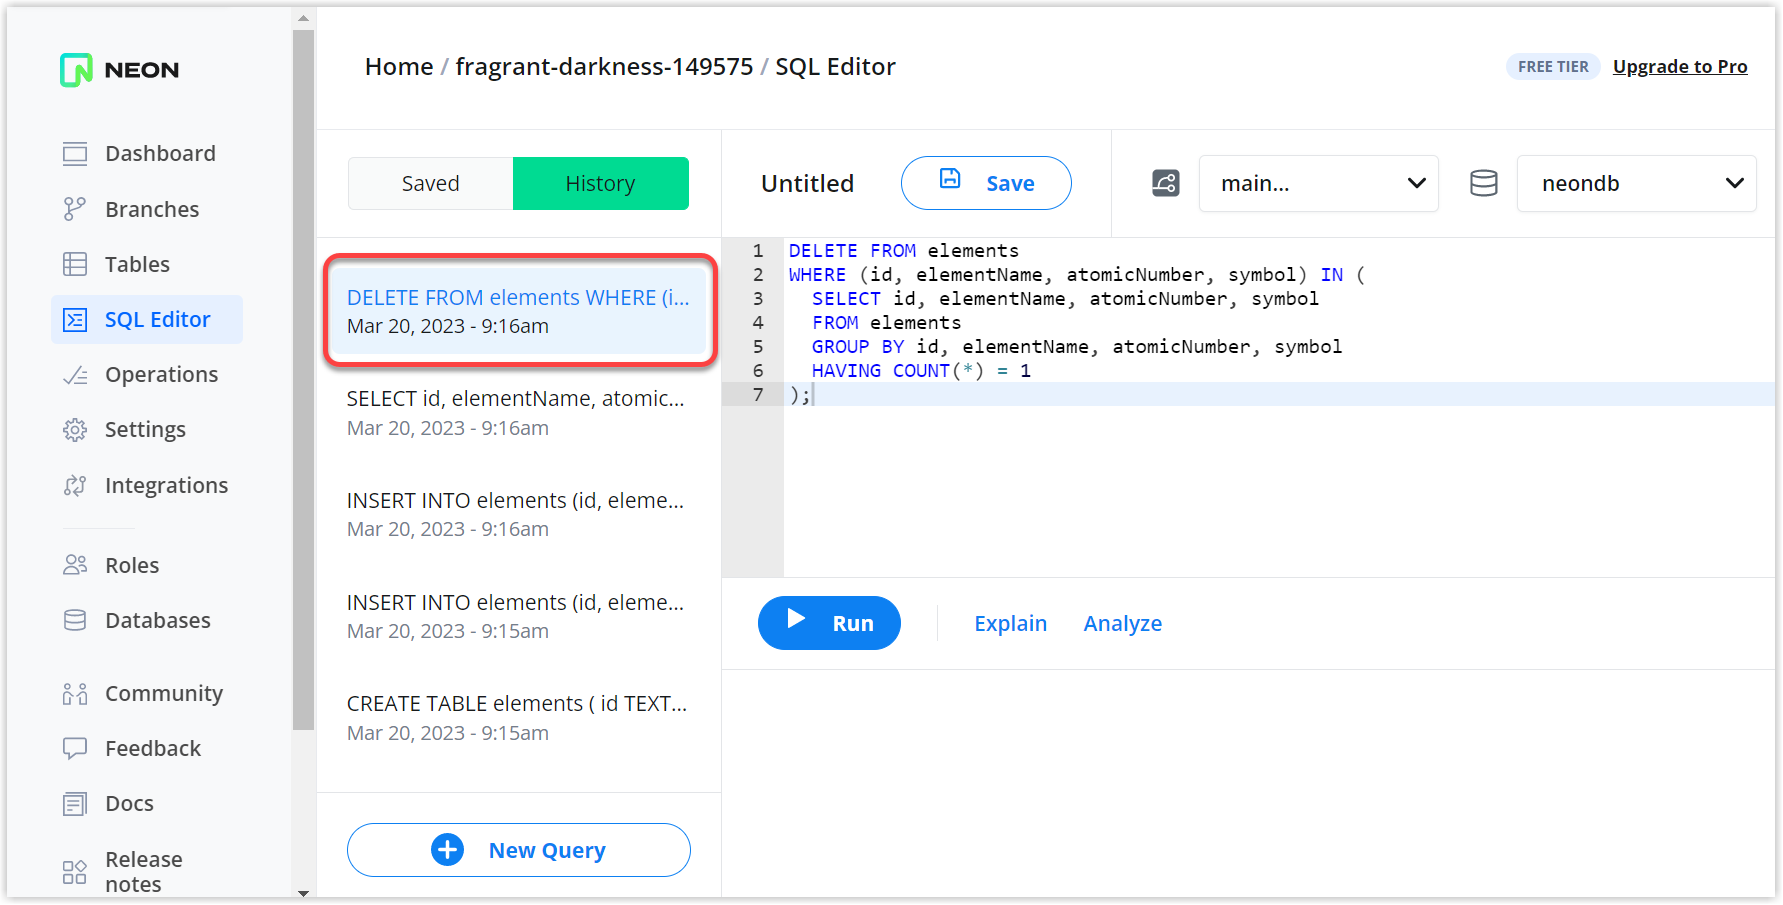
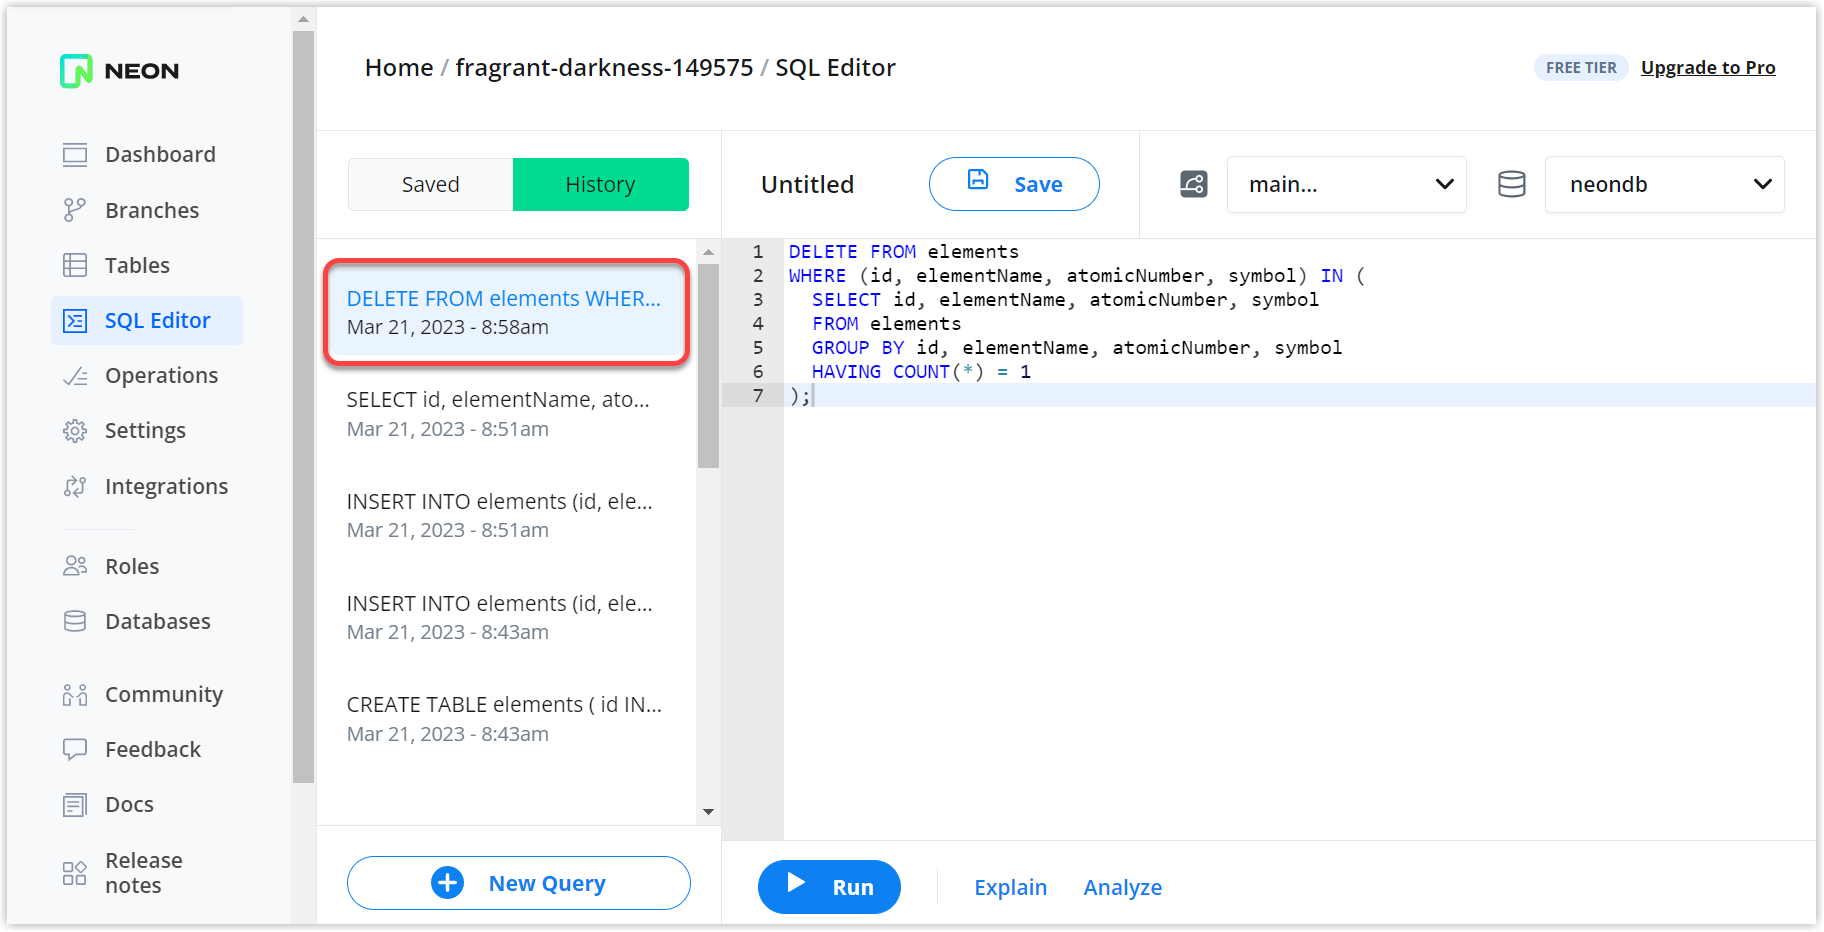
Revisions

diff --git a/content/docs/tutorial/data-recovery-with-branching.md b/content/docs/tutorial/data-recovery-with-branching.md
@@ -3,43 +3,28 @@ title: Data recovery with branching
 enableTableOfContents: true
 ---
 
-Suppose that you tried to populate the `elements` table with more data but you accidentally inserted several duplicate rows, which you discover when you run the following query:
+This part of the tutorial demonstrates how you can use Neon's branching feature to recover lost data.
+
+Suppose that you tried to populate the `elements` table with more data but you accidentally inserted several duplicate rows, which you discover when you run the following query to perform a quick check:
 
 ```sql
-SELECT * FROM elements ORDER BY id;
+SELECT id, elementName, atomicNumber, symbol, COUNT(*) as count
+FROM elements
+GROUP BY id, elementName, atomicNumber, symbol
+HAVING COUNT(*) > 1;
 ```
 
 ```text
- id | elementname | atomicnumber | symbol 
-----+-------------+--------------+--------
-  1 | Hydrogen    |            1 | H
-  2 | Helium      |            2 | He
-  3 | Lithium     |            3 | Li
-  4 | Beryllium   |            4 | Be
-  5 | Boron       |            5 | B
-  6 | Carbon      |            6 | C
-  7 | Nitrogen    |            7 | N
-  7 | Nitrogen    |            7 | N
-  8 | Oxygen      |            8 | O
-  8 | Oxygen      |            8 | O
-  9 | Fluorine    |            9 | F
-  9 | Fluorine    |            9 | F
- 10 | Neon        |           10 | Ne
- 10 | Neon        |           10 | Ne
- 11 | Sodium      |           11 | Na
- 11 | Sodium      |           11 | Na
- 12 | Magnesium   |           12 | Mg
- 13 | Aluminum    |           13 | Al
- 14 | Silicon     |           14 | Si
- 15 | Phosphorus  |           15 | P
- 16 | Sulfur      |           16 | S
- 17 | Chlorine    |           17 | Cl
- 18 | Argon       |           18 | Ar
- 19 | Potassium   |           19 | K
- 20 | Calcium     |           20 | Ca
+ id | elementname | atomicnumber | symbol | count
+----+-------------+--------------+--------+-------
+ 9  | Fluorine    |            9 | F      |     2
+ 10 | Neon        |           10 | Ne     |     2
+ 11 | Sodium      |           11 | Na     |     2
+ 8  | Oxygen      |            8 | O      |     2
+ 7  | Nitrogen    |            7 | N      |     2
 ```
 
-You write a query to remove the duplicate rows, but an error in your `DELETE` statement caused most of your data to be deleted. There is an `=` where there should have been a `>` on the last line of your query, which leaves you with only the duplicate rows.
+You write a query to remove the duplicate rows, but an error in your `DELETE` statement causes most of your data to be deleted.
 
 ```sql
 DELETE FROM elements
@@ -49,6 +34,27 @@ WHERE (id, elementName, atomicNumber, symbol) IN (
   GROUP BY id, elementName, atomicNumber, symbol
   HAVING COUNT(*) = 1
 );
+```
+
+There was an `=` where there should have been a `>` in the last line of your `DELETE` query, leaving you with only the duplicate rows.
+
+```sql
+SELECT * FROM elements ORDER BY id;
+```
+
+```text
+ id | elementname | atomicnumber | symbol 
+----+-------------+--------------+--------
+ 10 | Neon        |           10 | Ne
+ 10 | Neon        |           10 | Ne
+ 11 | Sodium      |           11 | Na
+ 11 | Sodium      |           11 | Na
+ 7  | Nitrogen    |            7 | N
+ 7  | Nitrogen    |            7 | N
+ 8  | Oxygen      |            8 | O
+ 8  | Oxygen      |            8 | O
+ 9  | Fluorine    |            9 | F
+ 9  | Fluorine    |            9 | F
 ```
 
 With Neon, you can recover from a data loss scenario like this very easily.
@@ -66,7 +72,7 @@ Now that you know when the data loss occurred, you can restore your data to a po
 1. Click **New Branch** to open the branch creation dialog.
 1. Enter a name for the branch.
 1. Select the parent branch. The data loss occurred on your project's [primary branch](/docs/reference/glossary/#primary-branch) (`main`), so select that one.
-1. Select the **Time** option to create a branch with data up to a specific date and time. You determined that the data loss occurred on March 20, 2023 at 9:16am, so you set it to the same date but at 9:15:59am, just before you ran the `DELETE` query.
+1. Select the **Time** option to create a branch with data up to a specific date and time. You determined that the data loss occurred on March 20, 2023 at 8:58am, so you set it to the same date but at 8:57am, just before you ran the `DELETE` query.
 ![Create a point in time branch](/docs/get-started-with-neon/create_branch_time.png)
 1. Click **Create Branch** to create your branch. You should see a message similar to the following with the connection details for your new branch.
 
